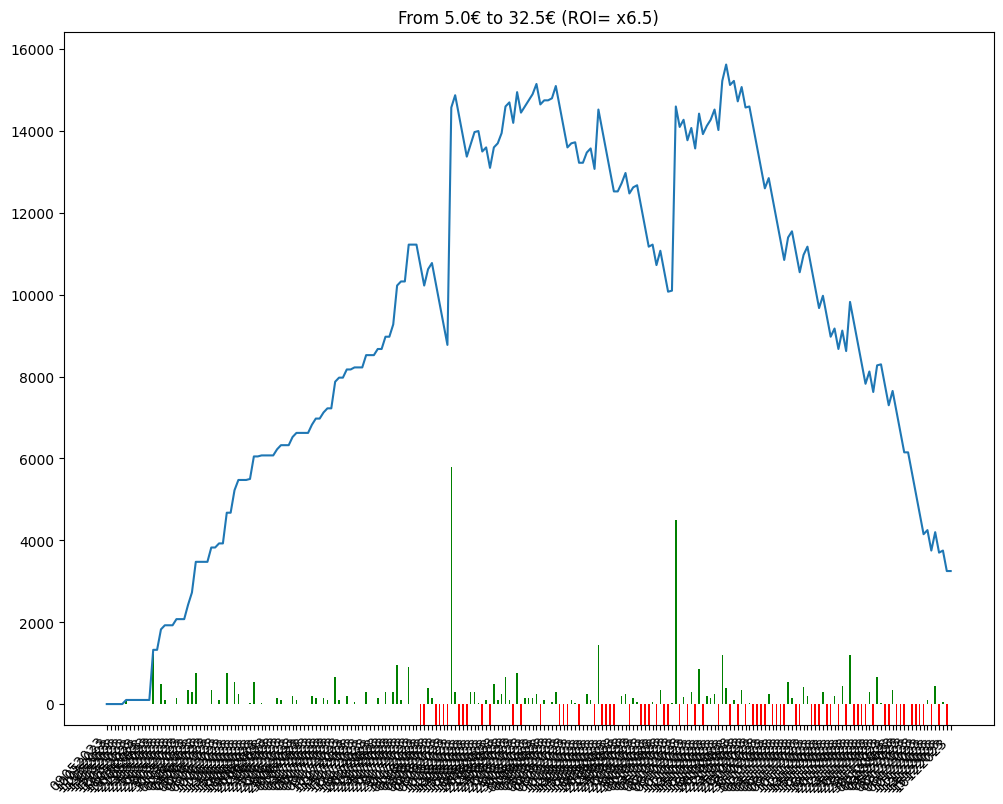
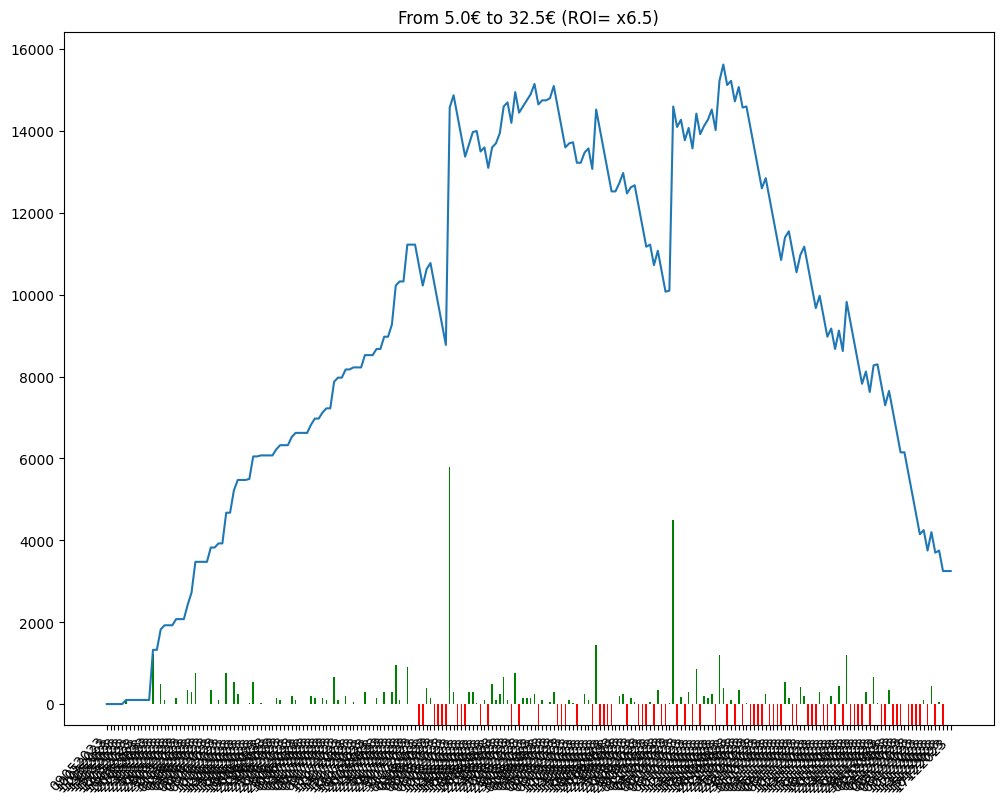
comment from python script

diff --git a/bethistory.html b/bethistory.html
@@ -86,7 +86,8 @@
             En observant la courbe 🤔, on peut avoir une idée visuelle de l'évolution des gains et ainsi évaluer le model utilisé 🧑🏫.
         </p>
         
-        <img src = "/candle.png" alt="candle chart"/><table><tr><td>Chevaux joués</td><td>Gains</td><td>URL Circuits</td></tr><tr><td>8 - JOYFUL LASS</td><td>0</td><td><a href=https://www.pmu.fr/turf/16122023/r6/c8 target="_blank">https://www.pmu.fr/turf/16122023/r6/c8</a></td></tr>
+        <img src = "/candle.png" alt="candle chart"/><table><tr><td>Chevaux joués</td><td>Gains</td><td>URL Circuits</td></tr><tr><td>8 - MANERO</td><td>0</td><td><a href=https://www.pmu.fr/turf/17122023/r3/c4 target="_blank">https://www.pmu.fr/turf/17122023/r3/c4</a></td></tr>
+<tr><td>8 - JOYFUL LASS</td><td>0</td><td><a href=https://www.pmu.fr/turf/16122023/r6/c8 target="_blank">https://www.pmu.fr/turf/16122023/r6/c8</a></td></tr>
 <tr><td>8 - WALDEZA</td><td>-500</td><td><a href=https://www.pmu.fr/turf/15122023/r4/c1 target="_blank">https://www.pmu.fr/turf/15122023/r4/c1</a></td></tr>
 <tr><td>2 - PRINCESSE SAPHIR</td><td>+50</td><td><a href=https://www.pmu.fr/turf/14122023/r1/c1 target="_blank">https://www.pmu.fr/turf/14122023/r1/c1</a></td></tr>
 <tr><td>3 - SAABIR</td><td>-500</td><td><a href=https://www.pmu.fr/turf/13122023/r3/c6 target="_blank">https://www.pmu.fr/turf/13122023/r3/c6</a></td></tr>
